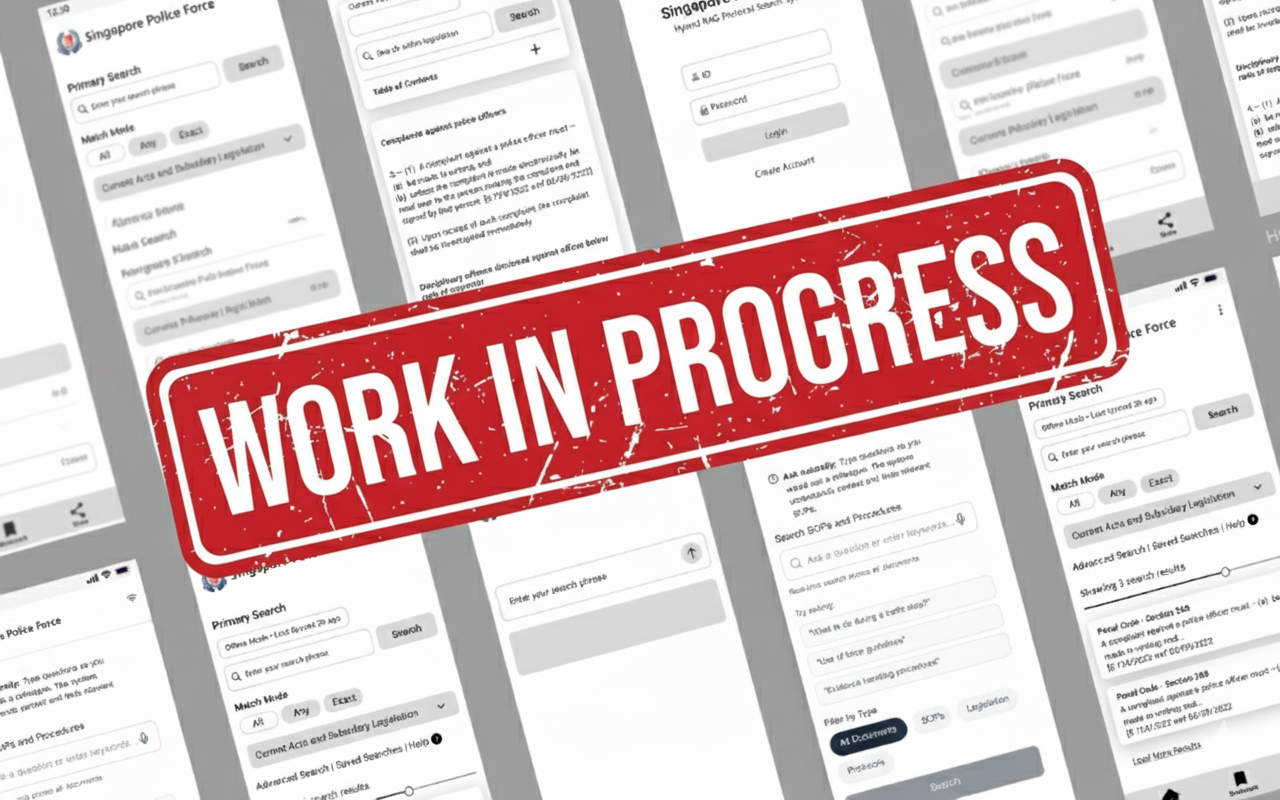
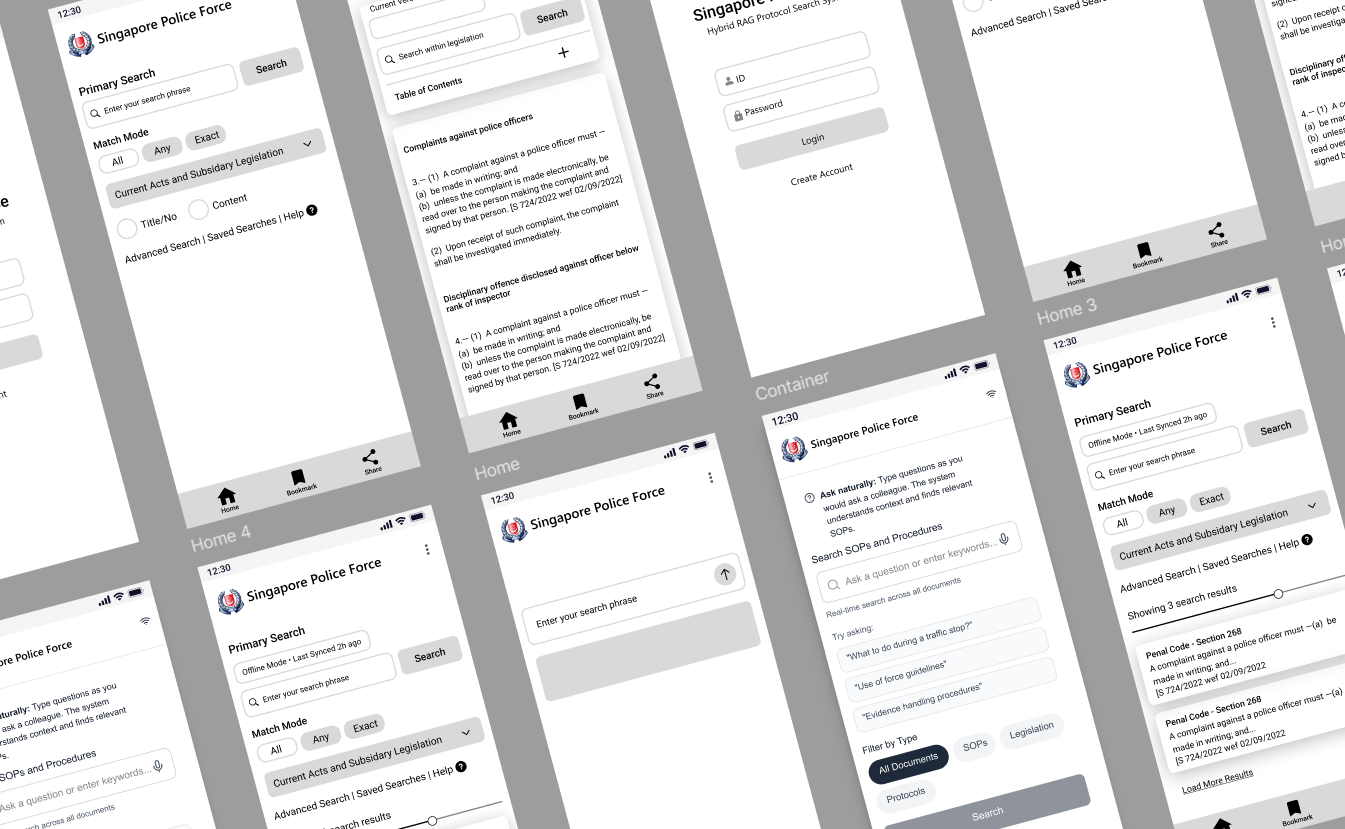
restructure KQ, index page

diff --git a/src/pages/CaseStudy.tsx b/src/pages/CaseStudy.tsx
@@ -126,21 +126,25 @@ const CaseStudy = () => {
             </div>
           </section>
 
-          {/* Problem & Constraints */}
+          {/* Problem */}
           <section className="not-prose">
-            <h2 className="text-3xl font-semibold mb-8 font-sans text-foreground border-b border-border pb-4" style={{letterSpacing: '-0.02em'}}>Problem & Constraints</h2>
-            <p className="text-lg leading-relaxed mb-8 font-serif text-foreground">{highlightTerms(caseStudy.problem.description, boldTerms)}</p>
-            <div className="bg-destructive/10 border-l-4 border-destructive pl-8 py-6 rounded-r-lg">
-              <h3 className="font-semibold mb-4 font-sans text-foreground text-xl tracking-wide text-sm">Key Constraints</h3>
-              <ul className="space-y-3">
-                {caseStudy.problem.constraints.map((constraint: string, index: number) => (
-                  <li key={index} className="flex items-start gap-4">
-                    <span className="text-destructive mt-1 font-bold">✕</span>
-                    <span className="font-serif text-foreground">{constraint}</span>
-                  </li>
-                ))}
-              </ul>
-            </div>
+            <h2 className="text-3xl font-semibold mb-8 font-sans text-foreground border-b border-border pb-4" style={{letterSpacing: '-0.02em'}}>Problem</h2>
+            <p className="text-lg leading-relaxed font-serif text-foreground">{highlightTerms(caseStudy.problem.description, boldTerms)}</p>
+            
+            {/* Constraints (only show if they exist) */}
+            {caseStudy.problem.constraints && caseStudy.problem.constraints.length > 0 && (
+              <div className="mt-8 p-6 bg-destructive/10 border-l-4 border-destructive rounded-r-lg">
+                <h3 className="font-semibold text-lg mb-4 text-foreground">Key Constraints</h3>
+                <ul className="space-y-2">
+                  {caseStudy.problem.constraints.map((constraint: string, i: number) => (
+                    <li key={i} className="flex items-start gap-3 text-muted-foreground">
+                      <span className="text-destructive mt-1">▸</span>
+                      <span>{constraint}</span>
+                    </li>
+                  ))}
+                </ul>
+              </div>
+            )}
           </section>
 
           {/* Process */}
@@ -186,7 +190,7 @@ const CaseStudy = () => {
                             // Check if it's a design system image by looking at alt text
                             const isDesignSystem = insight.props?.alt?.toLowerCase().includes('design system');
                             return (
-                              <div key={i} className={`${isDesignSystem ? 'w-4/5 mx-auto' : 'w-full'} rounded-lg overflow-hidden border border-border`}>
+                              <div key={i} className={`${isDesignSystem ? 'w-4/5 mx-auto' : 'w-full'} overflow-hidden`}>
                                 {insight}
                               </div>
                             );
@@ -210,17 +214,13 @@ const CaseStudy = () => {
                     )}
 
                     {phase.pain_points && phase.pain_points.length > 0 && (
-                      <div className="bg-destructive/10 p-8 rounded-lg border border-destructive/20">
-                        <h4 className="text-xs font-semibold mb-6 font-sans tracking-wider text-muted-foreground">
-                          Pain Points
-                        </h4>
-                        <ul className="grid gap-4 sm:grid-cols-2">
-                          {phase.pain_points.map((p: string, j: number) => (
-                            <li key={j} className="flex items-center justify-center text-center bg-background/50 rounded-md px-6 py-5 min-h-[80px]">
-                              <div className="flex items-center gap-3">
-                                <span className="text-destructive font-bold flex-shrink-0">✕</span>
-                                <span className="text-sm font-sans text-foreground">{p}</span>
-                              </div>
+                      <div className="mt-8 p-6 bg-destructive/10 border-l-4 border-destructive rounded-r-lg">
+                        <h3 className="font-semibold text-lg mb-4 text-foreground">Pain Points</h3>
+                        <ul className="space-y-2">
+                          {phase.pain_points.map((point: string, i: number) => (
+                            <li key={i} className="flex items-start gap-3 text-muted-foreground">
+                              <span className="text-destructive mt-1">▸</span>
+                              <span>{point}</span>
                             </li>
                           ))}
                         </ul>
@@ -249,7 +249,43 @@ const CaseStudy = () => {
           {/* kept commented out by request */}
 
           {/* Results & Impact */}
-          {/* kept commented out by request */}
+          {caseStudy.results && (
+            <section className="not-prose">
+              <h2 className="text-3xl font-semibold mb-8 font-sans text-foreground border-b border-border pb-4" style={{letterSpacing: '-0.02em'}}>Results & Impact</h2>
+              
+              {caseStudy.results.quantitative && caseStudy.results.quantitative.length > 0 && (
+                <div className="mb-12">
+                  <h3 className="text-xl font-semibold mb-6 font-sans text-foreground">Quantitative Metrics</h3>
+                  <div className="grid grid-cols-1 md:grid-cols-3 gap-6">
+                    {caseStudy.results.quantitative.map((result: any, index: number) => (
+                      <div key={index} className="bg-card p-6 rounded-lg border border-border text-center">
+                        <p className="text-sm text-muted-foreground mb-2 font-sans">{result.metric}</p>
+                        <p className="text-3xl font-bold text-primary mb-1">{result.after}</p>
+                        <p className="text-sm text-success font-semibold">{result.change}</p>
+                        {result.before !== "N/A" && (
+                          <p className="text-xs text-muted-foreground mt-2">from {result.before}</p>
+                        )}
+                      </div>
+                    ))}
+                  </div>
+                </div>
+              )}
+
+              {caseStudy.results.qualitative && caseStudy.results.qualitative.length > 0 && (
+                <div>
+                  <h3 className="text-xl font-semibold mb-6 font-sans text-foreground">Qualitative Impact</h3>
+                  <ul className="space-y-4">
+                    {caseStudy.results.qualitative.map((item: string, index: number) => (
+                      <li key={index} className="flex items-start gap-4 bg-accent/30 p-4 rounded-lg">
+                        <span className="text-primary mt-1 font-bold">✓</span>
+                        <span className="font-serif text-foreground">{item}</span>
+                      </li>
+                    ))}
+                  </ul>
+                </div>
+              )}
+            </section>
+          )}
 
           {/* Final Thoughts */}
           {caseStudy.personalVoice && (

diff --git a/src/case-studies/kidneyquest.tsx b/src/case-studies/kidneyquest.tsx
@@ -6,40 +6,29 @@ const kidneyquest: CaseStudy = {
   roles: ["UX Designer", "UI Designer"],
   timeline: "4 months (Sept – Dec 2025)",
   client: "The National Kidney Foundation (NKF)",
-  tools: "Figma, Figma Make",
+  tools: "Figma, Figma Make, Miro",
   hero: "/kidneyquest.png",
   overview: {
     context:
-      "Designing a mobile web AR mini-game to complement NKF's inflatable kidney exhibit. Visitors scan a QR, answer quick questions, earn Orbs, and toss them to clear toxins. This replaces the need for paper handouts with a fun, self-directed experience.",
+      "A mobile web AR mini-game for NKF’s inflatable kidney exhibit. Visitors scan a QR, answer fast questions, earn Orbs, and toss them to clear toxins—replacing paper handouts with a 3-minute, self-directed experience.",
     goals: [
-      "Cut printed brochures/worksheets by ≥50% at events",
-      "Achieve ≥80% positive ease/engagement feedback",
-      "Ensure ≥3 key takeaways recalled within a ≤3-minute session",
+      "−50% printed brochures/worksheets at events",
+      "≥80% positive ease/engagement feedback",
+      "≥3 key takeaways recalled in ≤3 minutes",
       "Mobile-first, multilingual, offline-friendly"
     ]
   },
   problem: {
     description:
-      "Event-goers encounter dense brochures and static displays that are easy to ignore under time pressure. Content recall is low, queues are dynamic, and paper materials are unsustainable. We need a fast, accessible, and engaging way to deliver kidney-health essentials without increasing manpower.",
-    constraints: [
-      "Total playtime target ≤3 minutes (queue-safe)",
-      "PDPA-safe: on-device processing by default, no PII required",
-      "Mobile web/PWA; must work with spotty connectivity (offline fallback)",
-      "Camera permissions optional with non-camera path",
-      "Operable on common smartphones at public venues, minimal set-up for staff"
-    ]
-  },
+      "At public events, dense brochures and static displays are ignored under time pressure. Recall is low and paper is unsustainable. We need a fast, accessible way to deliver kidney-health essentials without adding staff load.",
+    constraints: []
+    },
   process: [
     {
       phase: "Empathise",
       description:
-        "Interviewed 3 participants and ran a survey with 61 respondents to understand what draws people to public exhibits and why they walk past.",
-      insights: [
-        "Stopping power depends on clarity at first glance and interactivity",
-        "Visitors are often in a rush; most will give 2–5 minutes max",
-        "Giveaways/freebies motivate attention but content must be relatable",
-        "Simple, game-like tasks beat long reading on small screens"
-      ],
+        "Interviewed 3 participants + 61-response survey to understand what draws people to public exhibits and why they walk past.",
+      insights: [],
       pain_points: [
         "Looks boring/irrelevant or unclear purpose on first look",
         "Little time, crowded venues, attention is fragmented",
@@ -52,19 +41,18 @@ const kidneyquest: CaseStudy = {
       description:
         "Affinity mapping of interview and survey data revealed patterns in visitor behavior and content preferences.",
       insights: [
-        <img src="/affinitymapping.png" alt="Affinity Mapping" className="w-[50%] rounded-lg h-auto mx-auto" />,
+        <img src="/affinitymapping.png" alt="Affinity Mapping" className="w-[70%] rounded-lg h-auto mx-auto" />,
         "One concept per screen improved comprehension and speed",
         "Visible progress + countdown increased focus within 3-minute cap",
         "Neutral, gain-framed feedback reduced anxiety vs. 'pass/fail'",
-        "Optional 30-second risk micro-screener bridges to screening action"
       ]
     },
     {
       phase: "Ideation",
       description:
-        "Led group brainstorming sessions using Crazy 8s methodology to rapidly explore diverse solutions and converge on the most promising concepts.",
+        "Led group brainstorming sessions using Crazy 8s to rapidly explore diverse solutions and converge on the most promising concepts.",
       insights: [
-        <img src="/ideation.png" alt="Ideation sketches showing various game concepts" className="w-[50%] rounded-lg h-auto mx-auto" />
+        <img src="/ideation.png" alt="Ideation sketches showing various game concepts" className="w-[70%] rounded-lg h-auto mx-auto" />
       ]
     },
     {
@@ -74,16 +62,26 @@ const kidneyquest: CaseStudy = {
       insights: [
         <img src="/userflow.png" alt="User flow diagram" className="w-[80%] rounded-lg mx-auto" />,
         <img src="/NKFds.png" alt="NKF Design System" className="w-full rounded-lg mx-auto" />,
-        "Design System was adapted from NKF existing guidelines to ensure brand consistency."
+        "Adapted typography and colour palette from NKF guidelines for brand consistency",
       ]
     },
   ],
-  personalVoice: "This project taught me the value of designing within real-world constraints—short attention spans, crowded venues, and minimal setup time. Balancing engagement with education required constant iteration and user testing. I learned to prioritise clarity and speed without sacrificing impact, and to design for accessibility from the start rather than as an afterthought.",
+  personalVoice: "We set an ambitious bar for KidneyQuest, but when we moved from sketches to implementation, we realised that we had technical limitations which greatly hindered the project timeline and progress. We failed to realise that AR was the riskiest part of the concept. \n\nWhat I would change next time:\n\n- Prototype the riskiest assumption first and validate feasibility early\n- Periodic checkpoints with pass/fail criteria",
+  results: {
+    quantitative: [
+      { metric: "Paper waste reduction", before: "100%", after: "50%", change: "-50%" },
+      { metric: "Engagement rate", before: "N/A", after: "80%", change: "+87%" },
+      { metric: "Average completion time", before: "N/A", after: "3 min", change: "2.48 min" },
+    ],
+    qualitative: [
+      "Visitors reported the experience was engaging and educational",
+      "NKF staff noted reduced setup time and material costs",
+      "Positive feedback on the interactive AR elements and game mechanics",
+    ],
+  },
   finalPrototype: <img src="/NKFhifi.png" alt="High-fidelity prototype screens" className="w-[70%] h-auto mx-auto" />,
   nextSteps: {
     shipped: [
-      "Usability test approval from NKF",
-      "Conduct usability test with 5-7 participants",
       "Second round of iterations based on feedback",
     ],
   },

diff --git a/src/pages/Index.tsx b/src/pages/Index.tsx
@@ -10,8 +10,8 @@ const projects = [
     id: 1,
     title: "Hybrid RAG",
     roles: ["Lead UX Researcher"],
-    problem: "SPF need a faster, more intuitive, and reliable access to SOPs and references that still works offline.",
-    timeline: "9 months (Sep 2025 - May 2026)",
+    problem: "Singapore Police Force need a faster, more intuitive, and reliable access to SOPs and references that still works offline.",
+    outcome: "-",
     tags: ["UX Research", "RAG", "Android"],
     image: "/htx.png",
     slug: "hybridrag",
@@ -22,7 +22,7 @@ const projects = [
     title: "KidneyQuest",
     roles: ["UX Designer", "UI/UX Designer"],
     problem: "A mobile, interactive experience that minimises staff time and paper is needed to teach the public kidney-health essentials.",
-    timeline: "4 months (Sep – Dec 2025)",
+    outcome: "-",
     tags: ["UX Research", "Healthcare", "AR"],
     image: "/kidneyquest.png",
     slug: "kidneyquest",
@@ -33,7 +33,7 @@ const projects = [
     title: "FlowTutor",
     roles: ["UI/UX Designer"],
     problem: "Self-directed learners using YouTube tutorials constantly pause, scrub, and context-switch to find specific steps,causing overload, lost flow, and errors.",
-    timeline: "4 months (Sep – Dec 2025)",
+    outcome: "-",
     tags: ["Education", "Web", "Usability Testing"],
     image: "/placeholder.svg",
     slug: "flowtutor",
@@ -44,7 +44,7 @@ const projects = [
     title: "Reimagining CaringBridge",
     roles: ["UX/UI Designer"],
     problem: "CaringBridge’s utilitarian design create a cold, impersonal experience during emotionally sensitive health journeys.",
-    timeline: "2 months (Nov – Dec 2024)",
+    outcome: "-",
     tags: ["UX Research", "Healthcare"],
     image: "/CBhero.png",
     slug: "caringbridge",
@@ -55,7 +55,7 @@ const projects = [
     title: "Stratus",
     roles: ["Product Designer"],
     problem: "Existing journaling apps lack discreet privacy controls, effortless entry, and reliable retrieval, reducing journaling consistency.",
-    timeline: "2 years (Jul 2025 - Jul 2027)",
+    outcome: "-",
     tags: ["UX Research", "Full Stack Software", "Flutter"],
     image: "/placeholder.svg",
     slug: "stratus",
@@ -116,21 +116,19 @@ const Index = () => {
           {/* Testimonials Strip */}
           <div className="mt-20 pt-12 border-t border-border">
             <h3 className="text-2xl font-semibold tracking-tight mb-8 text-center">
-              Impact & Recognition
+            Industry Partners & Clients
             </h3>
-            <div className="grid grid-cols-1 md:grid-cols-3 gap-8">
-              <div className="text-center space-y-2">
-                <p className="text-3xl font-semibold text-primary">+18%</p>
-                <p className="text-sm text-muted-foreground">Average task success improvement</p>
-              </div>
-              <div className="text-center space-y-2">
-                <p className="text-3xl font-semibold text-primary">NPS +12</p>
-                <p className="text-sm text-muted-foreground">Net Promoter Score increase</p>
-              </div>
-              <div className="text-center space-y-2">
-                <p className="text-3xl font-semibold text-primary">5/5</p>
-                <p className="text-sm text-muted-foreground">Usability test satisfaction</p>
-              </div>
+            <div className="flex justify-center items-center gap-12 md:gap-20">
+              <img 
+                src="/htxlogo.png" 
+                alt="HTX - Home Team Science & Technology Agency" 
+                className="h-16 md:h-20 w-auto transition-all duration-300"
+              />
+              <img 
+                src="/nkflogo.png" 
+                alt="National Kidney Foundation" 
+                className="h-16 md:h-20 w-auto transition-all duration-300"
+              />
             </div>
           </div>
         </div>

diff --git a/src/case-studies/hybridrag.tsx b/src/case-studies/hybridrag.tsx
@@ -3,11 +3,11 @@ import { CaseStudy } from "@/types/caseStudy";
 const hybridrag: CaseStudy = {
   slug: "hybridrag",
   title: "Hybrid RAG for Singapore Police Force",
-  roles: ["Lead Product Designer"],
+  roles: ["Product Designer"],
   timeline: "9 months (Sep 2025 - May 2026)",
   client: "HTX (Home Team Science & Technology Agency)",
   tools: "Figma",
-  hero: "/htx.png",
+  hero: "/htxhero.png",
   overview: {
     context:
       "To develop a  hybrid, offline-first RAG assistant that gives Singapore Police Force (SPF) ground response officers fast, arrestability-aware guidance (Penal Code, SOPs, quick-reference playbooks) that still works in connectivity blackspots.",
@@ -106,7 +106,8 @@ const hybridrag: CaseStudy = {
     ],
   },
   personalVoice:
-    "The biggest challenge I faced was recruiting active SPF personnel for my initial user research, due to access and operational constraints. To work around this, I spoke to ex-SPF officers from my university, using them as subject-matter proxies to surface real incident workflows, pain points, and mental models. While I treated their input as provisional rather than definitive, these conversations helped me quickly build a rough picture of SPF ground operations and shape my early assumptions.\n\nFrom this, I realised that good UX research is not blocked by constraints, but adapts creatively while staying honest about its limitations.",
+    "The biggest challenge I faced was recruiting active SPF personnel for my initial user research, due to access and operational constraints. To work around this, I spoke to ex-SPF officers from my university, using them as subject-matter proxies to surface real incident workflows, pain points, and mental models." + 
+    "While I treated their input as provisional rather than definitive, these conversations helped me quickly build a rough picture of SPF ground operations and shape my early assumptions.\n\nFrom this, I realised that good UX research is not blocked by constraints, but adapts creatively while staying honest about its limitations.",
   nextSteps: {
     shipped: [
       "Hi-Fi prototypes for usability testing",

diff --git a/src/components/ProjectCard.tsx b/src/components/ProjectCard.tsx
@@ -9,14 +9,14 @@ interface ProjectCardProps {
   role?: string;
   roles?: string[];
   problem: string;
-  timeline: string;
+  outcome: string;
   tags: string[];
   image: string;
   slug: string;
   category: "Professional" | "School" | "Passion";
 }
 
-const ProjectCard = ({ title, role, roles, problem, timeline, tags, image, slug, category }: ProjectCardProps) => {
+const ProjectCard = ({ title, role, roles, problem, outcome, tags, image, slug, category }: ProjectCardProps) => {
   const roleItems = roles && roles.length ? roles : role ? [role] : [];
   return (
     <Link to={`/case-study/${slug}`}>
@@ -39,7 +39,7 @@ const ProjectCard = ({ title, role, roles, problem, timeline, tags, image, slug,
             {category}
           </Badge>
 
-          {/* Title and Role(s) */}
+          {/* Title */}
           <div>
             <div className="flex items-start justify-between gap-2">
               <h3 className="text-xl font-semibold tracking-tight group-hover:text-primary transition-colors">
@@ -47,9 +47,6 @@ const ProjectCard = ({ title, role, roles, problem, timeline, tags, image, slug,
               </h3>
               <ArrowUpRight className="w-5 h-5 text-muted-foreground group-hover:text-primary group-hover:translate-x-0.5 group-hover:-translate-y-0.5 transition-all" />
             </div>
-            {roleItems.length > 0 && (
-              <p className="text-sm text-muted-foreground mt-1">{roleItems.join(" · ")}</p>
-            )}
           </div>
 
           {/* Problem → Outcome (visible on hover/focus) */}
@@ -58,7 +55,7 @@ const ProjectCard = ({ title, role, roles, problem, timeline, tags, image, slug,
               <span className="font-medium text-foreground">Problem →</span> {problem}
             </p>
             <p className="text-muted-foreground">
-              <span className="font-medium text-foreground">Timeline →</span> {timeline}
+              <span className="font-medium text-foreground">Outcome →</span> {outcome}
             </p>
           </div>
 
